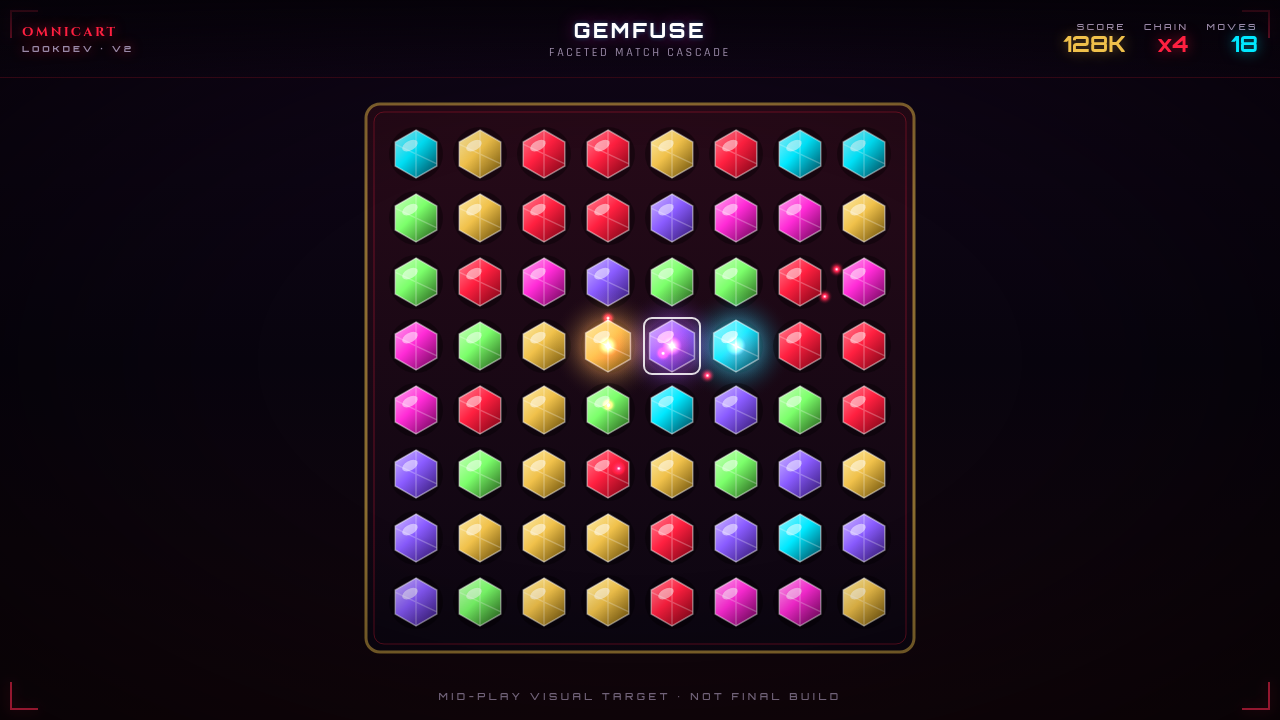
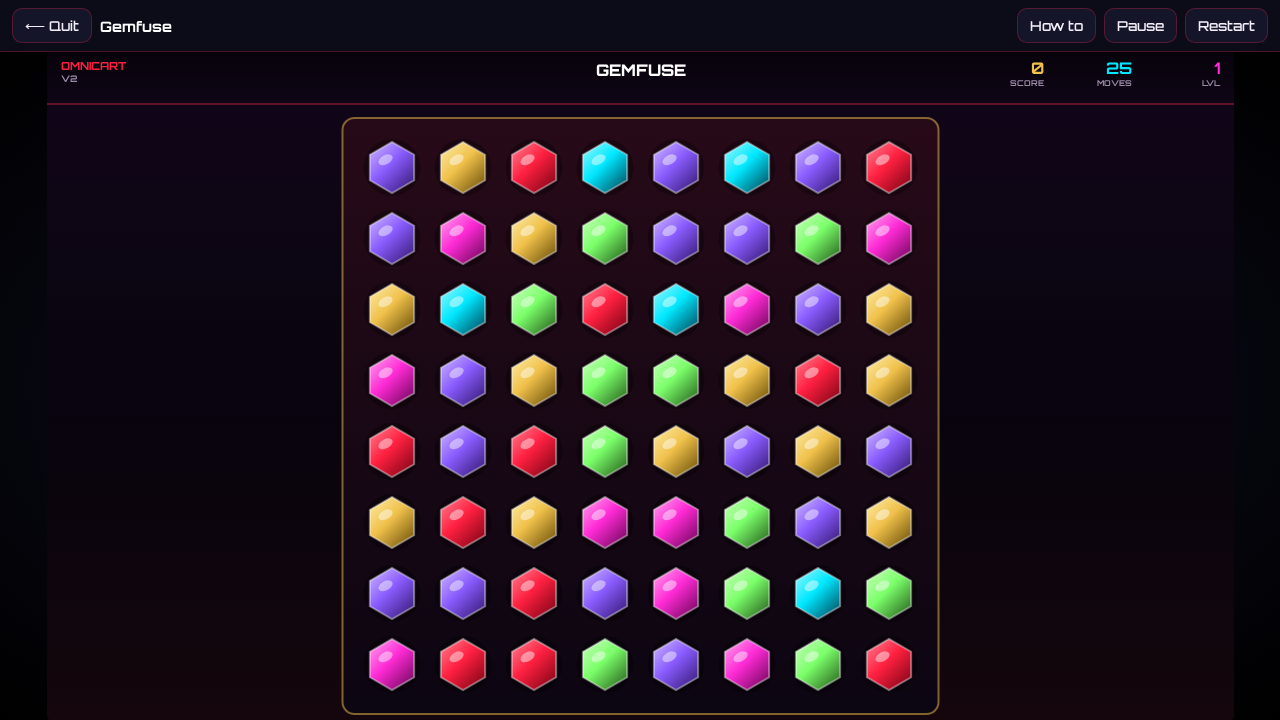
Fix WebGL/2D canvas conflict, ship polished shots + smoke
Replace canvas on each launch so Three.js games work after Canvas2D.
fitParent no longer poisons WebGL. Hero cart says 10. Playwright uses
swiftshader. Fresh mid-play screenshots and public/screenshots thumbs.
All 10 smoke tests pass.

diff --git a/src/core/canvas.ts b/src/core/canvas.ts
@@ -1,20 +1,40 @@
 /** Keep canvas CSS size responsive while backing store matches devicePixelRatio. */
-export function resizeCanvas(canvas: HTMLCanvasElement, cssW: number, cssH: number): { w: number; h: number; dpr: number } {
-  const dpr = Math.min(window.devicePixelRatio || 1, 2.5);
+export function resizeCanvas(
+  canvas: HTMLCanvasElement,
+  cssW: number,
+  cssH: number,
+  opts: { dprCap?: number; setup2d?: boolean } = {},
+): { w: number; h: number; dpr: number } {
+  const dpr = Math.min(window.devicePixelRatio || 1, opts.dprCap ?? 2.5);
   canvas.style.width = `${cssW}px`;
   canvas.style.height = `${cssH}px`;
   canvas.width = Math.max(1, Math.floor(cssW * dpr));
   canvas.height = Math.max(1, Math.floor(cssH * dpr));
-  const ctx = canvas.getContext('2d');
-  if (ctx) ctx.setTransform(dpr, 0, 0, dpr, 0, 0);
+  canvas.dataset.cssW = String(cssW);
+  canvas.dataset.cssH = String(cssH);
+  if (opts.setup2d !== false) {
+    // Only touch 2d context when requested (default true for Canvas2D games).
+    // 3D games must pass setup2d:false — a canvas cannot host both contexts.
+    try {
+      const ctx = canvas.getContext('2d');
+      if (ctx) ctx.setTransform(dpr, 0, 0, dpr, 0, 0);
+    } catch {
+      /* ignore if webgl already bound */
+    }
+  }
   return { w: cssW, h: cssH, dpr };
 }
 
-export function fitParent(canvas: HTMLCanvasElement, parent: HTMLElement, aspect = 16 / 9): { w: number; h: number; dpr: number } {
+export function fitParent(
+  canvas: HTMLCanvasElement,
+  parent: HTMLElement,
+  aspect = 16 / 9,
+  opts?: { dprCap?: number; setup2d?: boolean },
+): { w: number; h: number; dpr: number } {
   const rect = parent.getBoundingClientRect();
   let w = rect.width;
   let h = rect.height;
   if (w / h > aspect) w = h * aspect;
   else h = w / aspect;
-  return resizeCanvas(canvas, Math.floor(w), Math.floor(h));
+  return resizeCanvas(canvas, Math.floor(w), Math.floor(h), opts);
 }

diff --git a/src/main.ts b/src/main.ts
@@ -95,7 +95,7 @@ const bootFill = document.getElementById('boot-fill') as HTMLElement;
 const shell = document.getElementById('shell')!;
 const menu = document.getElementById('menu')!;
 const play = document.getElementById('play')!;
-const canvas = document.getElementById('game-canvas') as HTMLCanvasElement;
+let canvas = document.getElementById('game-canvas') as HTMLCanvasElement;
 const playTitle = document.getElementById('play-title')!;
 const loadingGame = document.getElementById('loading-game')!;
 const pauseOverlay = document.getElementById('pause-overlay')!;
@@ -261,6 +261,11 @@ async function launch(id: string): Promise<void> {
     current.destroy();
     current = null;
   }
+  // Fresh canvas each launch so 2D and WebGL games can alternate
+  const fresh = document.createElement('canvas');
+  fresh.id = 'game-canvas';
+  canvas.replaceWith(fresh);
+  canvas = fresh;
   try {
     const mod = await loaders[id]();
     loadingGame.hidden = true;

diff --git a/index.html b/index.html
@@ -10,7 +10,7 @@
   <link rel="preconnect" href="https://fonts.googleapis.com" />
   <link rel="preconnect" href="https://fonts.gstatic.com" crossorigin />
   <link href="https://fonts.googleapis.com/css2?family=Cinzel:wght@600;700&family=Orbitron:wght@500;700;800&family=Rajdhani:wght@500;600;700&display=swap" rel="stylesheet" />
-    <meta name="description" content="OMNICART: a retro neon cartridge packing 30 original arcade, puzzle, racing, and action games." />
+    <meta name="description" content="OMNICART: a retro neon cartridge ten demonic-neon arcade games in one cursed cartridge." />
   </head>
   <body>
     <div id="app"></div>

diff --git a/src/style.css b/src/style.css
@@ -110,7 +110,7 @@ html, body { margin: 0; height: 100%; overflow: hidden; background: var(--bg); }
   background: linear-gradient(90deg, var(--neon), var(--pink), var(--gold));
 }
 .hero-logo::after {
-  content: "30"; position: absolute; left: 10px; bottom: 14px; font-weight: 900; font-size: 1.4rem;
+  content: "10"; position: absolute; left: 10px; bottom: 14px; font-weight: 900; font-size: 1.4rem;
   color: var(--neon); letter-spacing: 0.05em;
 }
 .hero-copy h1 {

diff --git a/src/games/horizon-drive.ts b/src/games/horizon-drive.ts
@@ -21,7 +21,7 @@ class HorizonDriveGame implements GameInstance {
 
   private layout(): void {
     const parent=this.canvas.parentElement??document.body;
-    const {w,h}=fitParent(this.canvas,parent,16/9); this.w=w; this.h=h;
+    const {w,h}=fitParent(this.canvas, parent, 16/9, { setup2d: false, dprCap: 1.75 }); this.w=w; this.h=h;
     this.canvas.dataset.cssW=String(w); this.canvas.dataset.cssH=String(h);
     if(this.kit) resizeThree(this.kit,w,h);
   }

diff --git a/src/games/pulse-duel.ts b/src/games/pulse-duel.ts
@@ -28,7 +28,7 @@ class PulseDuelGame implements GameInstance {
 
   private layout(): void {
     const parent=this.canvas.parentElement??document.body;
-    const {w,h}=fitParent(this.canvas,parent,16/9); this.w=w; this.h=h;
+    const {w,h}=fitParent(this.canvas, parent, 16/9, { setup2d: false, dprCap: 1.75 }); this.w=w; this.h=h;
     this.canvas.dataset.cssW=String(w); this.canvas.dataset.cssH=String(h);
     if(this.kit) resizeThree(this.kit,w,h);
   }

diff --git a/playwright.config.ts b/playwright.config.ts
@@ -12,10 +12,9 @@ export default defineConfig({
     viewport: { width: 1280, height: 720 },
     hasTouch: true,
     ...devices['Desktop Chrome'],
-    headless: true,
-    viewport: { width: 1280, height: 720 },
-    hasTouch: true,
-    baseURL: 'http://127.0.0.1:4500',
+    launchOptions: {
+      args: ['--use-gl=swiftshader', '--ignore-gpu-blocklist'],
+    },
   },
   webServer: {
     command: 'npm run preview -- --host 127.0.0.1 --port 4500',

diff --git a/tests/smoke.spec.ts b/tests/smoke.spec.ts
@@ -17,7 +17,7 @@ test('menu boots', async ({ page }) => {
   await page.goto('/');
   await page.waitForSelector('.cart');
   await expect(page.locator('.cart')).toHaveCount(10);
-  expect(errors.filter(e => !e.includes('favicon') && !e.includes('Failed to load resource')).toHaveLength(0);
+  expect(errors.filter(e => !e.includes('favicon') && !e.includes('Failed to load resource'))).toHaveLength(0);
 });
 
 for (const id of GAMES) {

diff --git a/src/games/hover-tube.ts b/src/games/hover-tube.ts
@@ -39,7 +39,7 @@ class HoverTubeGame implements GameInstance {
 
   private layout(): void {
     const parent = this.canvas.parentElement ?? document.body;
-    const { w, h } = fitParent(this.canvas, parent, 16 / 9);
+    const { w, h } = fitParent(this.canvas, parent, 16 / 9, { setup2d: false, dprCap: 1.75 });
     this.w = w; this.h = h;
     this.canvas.dataset.cssW = String(w);
     this.canvas.dataset.cssH = String(h);

diff --git a/vite.config.ts b/vite.config.ts
@@ -9,6 +9,7 @@ export default defineConfig({
       output: {
         manualChunks(id) {
           if (id.includes('node_modules/three')) return 'three';
+          if (id.includes('/src/shared/threeKit')) return 'three-kit';
           if (id.includes('/src/games/')) {
             const m = id.match(/\/games\/([^/]+)/);
             if (m) return `game-${m[1]}`;
